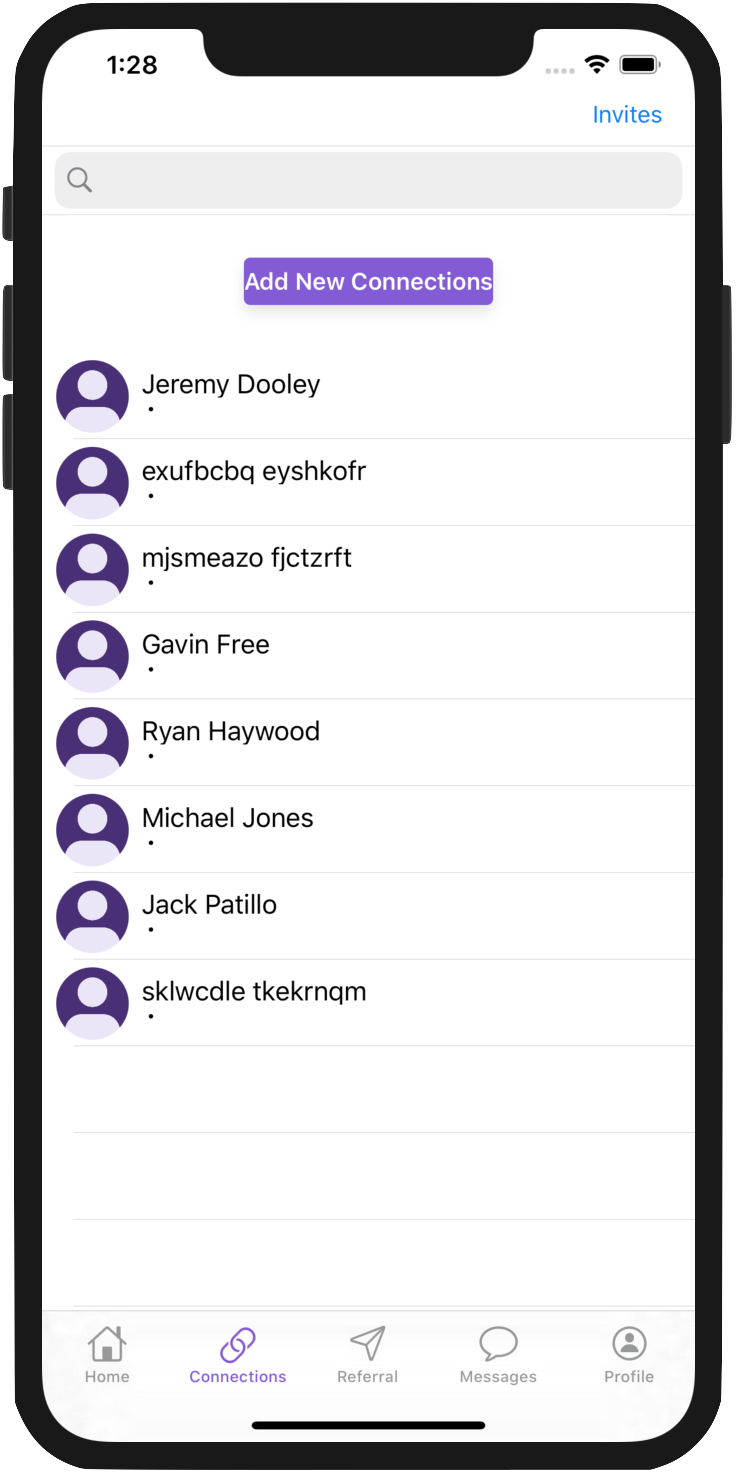
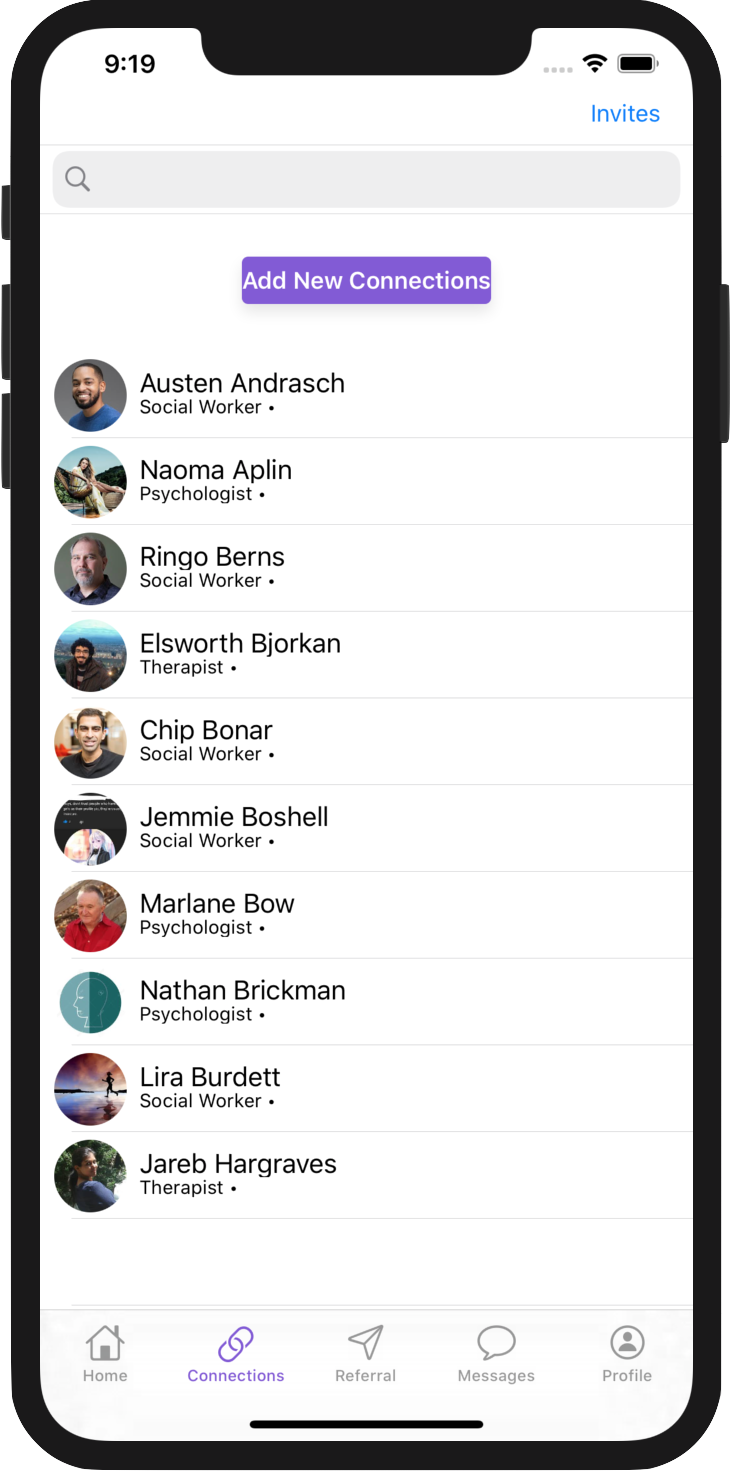
Updated connections

diff --git a/connections.html b/connections.html
@@ -32,7 +32,8 @@
 						<div class="inner">
 							<h1 class="major">Connections</h1>
 							<span class="image"><img src="images/connections1.png" alt="" style="width:250px;" /></span>
-                            <span class="image"><img src="images/connections2.png" alt="" style="width:250px;" /></span>
+              <span class="image"><img src="images/connections2.png" alt="" style="width:250px;" /></span>
+              <span class="image"><img src="images/connections3.png" alt="" style="width:250px;" /></span>
 							<p>Connect with other clinicians and add them to your network. Keep up-to-date with the activities of your peers, stay available for
                                 other clinicians to refer you, and make references to other clinicians.</p>
 						</div>
